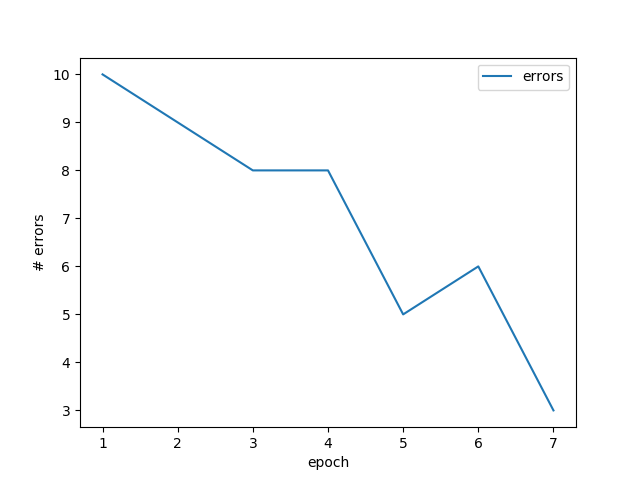
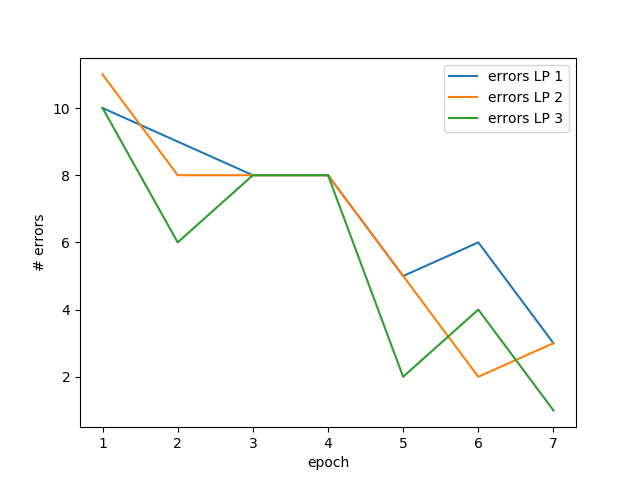
updated plotting to plot all curves on same plot; also included empty files for the submissions; also updated the README

diff --git a/plotting.py b/plotting.py
@@ -19,29 +19,49 @@ import sys
 
 import pandas as pd
 
-def errors_vs_epochs(input_path, output_path):
+def errors_vs_epochs(in1, in2, in3, output_path):
 	"""
 	Plot the number of training errors vs the number of epochs.
 
 	Arguments
 	--------------------------------------------------------------------
-		input_path : str : data collected from perceptron stored in a 
-			.csv file with columns: ['epoch','errors', 'weights']
+		in_1 : str : .csv file for learning problem 1
+		in_2 : str : .csv file for learning problem 2
+		in_3 : str : .csv file for learning problem 3
 		output_path : str : .png image file to save the plot to
+
+	Notes
+	--------------------------------------------------------------------
+		The csv files should have columns: 'epoch','errors','weights'
 	"""
 
-	df = pd.read_csv(input_path, usecols=['epoch','errors'])
-	ax = df.plot.line(x='epoch', y='errors')
+	df1 = pd.read_csv(in1, usecols=['epoch','errors'])
+	df2 = pd.read_csv(in2, usecols=['epoch','errors'])
+	df3 = pd.read_csv(in3, usecols=['epoch','errors'])
+
+	df1 = df1.rename(columns={"errors": "errors LP 1"})
+	df2 = df2.rename(columns={"errors": "errors LP 2"})
+	df3 = df3.rename(columns={"errors": "errors LP 3"})
+
+	df = pd.merge(pd.merge(df1, df2, on='epoch'), df3, on='epoch')
+
+	print(df)
+
+	ax = df.plot.line(x='epoch', y=['errors LP 1','errors LP 2','errors LP 3'])
 	ax.set_xlabel("epoch")
 	ax.set_ylabel("# errors")
 	ax.figure.savefig('sample_plot.png')
 
 def main():
-	if len(sys.argv) < 3:
-		print("Read plotting.py, specify input and output.")
-	input_path = sys.argv[1]
-	output_path = sys.argv[2]
-	errors_vs_epochs(input_path, output_path)
+	if len(sys.argv) < 4:
+		print("Read plotting.py, specify input and output paths.")
+
+	in1 = sys.argv[1]
+	in2 = sys.argv[2]
+	in3 = sys.argv[3]
+	output_path = sys.argv[4]
+
+	errors_vs_epochs(in1, in2, in3, output_path)
 
 if __name__ == "__main__":
 	main()

diff --git a/README.md b/README.md
@@ -1,2 +1,12 @@
 # Perceptron-Learner
 A basic perceptron learner configured to classify data from the iris dataset.
+
+# Deliverables
+- D2.csv : epoch stats file for T2
+- D2.png : plot for each of the three LPs for T2
+- D3.csv : epoch stats file for T3
+- D3.png : plot for each of the three LPs for T3
+- D4.csv : epoch stats file for T4
+- D4.png : plot for each of the three LPs for T4
+- D5.pdf : report for T5
+- D6.pdf : writeup and reflection
